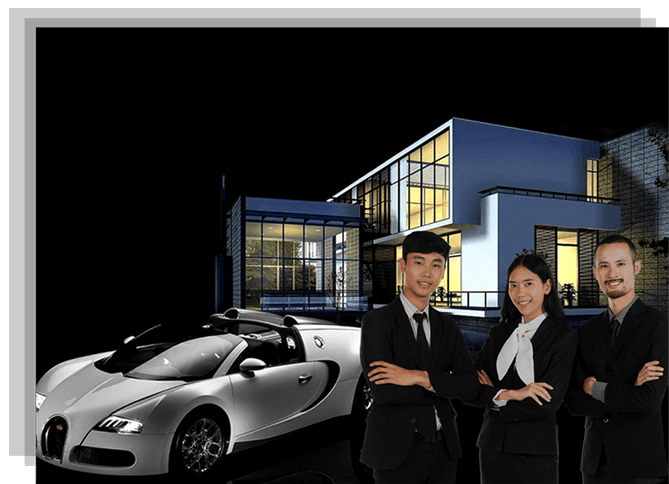
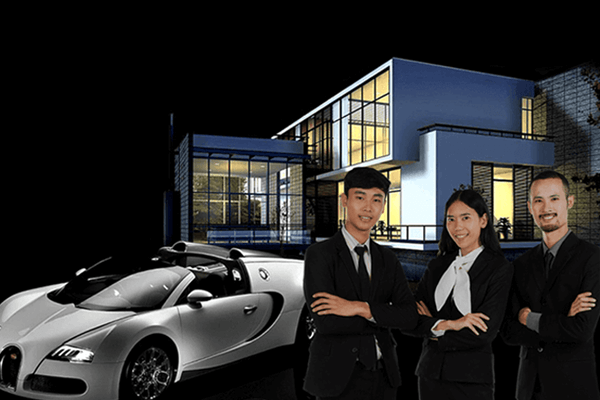
190730

diff --git a/css/CustomStyle.css b/css/CustomStyle.css
@@ -35,7 +35,7 @@ body {
   display: flex;
   -webkit-justify-content: flex-start;
   justify-content: flex-start;
-  max-width: 1440px;
+  max-width: 1200px;
   width: 100%;
   margin: 20px auto;
   padding: 20px;
@@ -114,23 +114,23 @@ body {
 }
 
 .wrap section.PageBox .PBi-01 .box01 .ImgItemBox.aaa .pg01-part-1 {
-  -webkit-transform: translate(490px, 600px);
-  transform: translate(490px, 600px);
+  -webkit-transform: translate(360px, 610px);
+  transform: translate(360px, 610px);
 }
 
 .wrap section.PageBox .PBi-01 .box01 .ImgItemBox.aaa .pg01-part-2 {
-  -webkit-transform: translate(100px, 460px);
-  transform: translate(100px, 460px);
+  -webkit-transform: translate(-20px, 460px);
+  transform: translate(-20px, 460px);
 }
 
 .wrap section.PageBox .PBi-01 .box01 .ImgItemBox.aaa .pg01-part-3 {
-  -webkit-transform: translate(85px, 200px);
-  transform: translate(85px, 200px);
+  -webkit-transform: translate(-35px, 200px);
+  transform: translate(-35px, 200px);
 }
 
 .wrap section.PageBox .PBi-01 .box01 .ImgItemBox.aaa .pg01-part-4 {
-  -webkit-transform: translate(-230px, -100px);
-  transform: translate(-230px, -100px);
+  -webkit-transform: translate(-360px, -110px);
+  transform: translate(-360px, -110px);
 }
 
 .wrap section.PageBox .PBi-01 .box02 {
@@ -199,7 +199,7 @@ body {
 
 .wrap section.PageBox .PBi-02 .box02 img {
   margin-top: 15px;
-  width: 100%;
+  width: 120%;
 }
 
 .wrap section.PageBox .PBi-03 {
@@ -308,11 +308,13 @@ body {
 }
 
 .wrap section.PageBox .PBi-04 .box02 {
-  width: 800px;
+  width: 680px;
+  margin-bottom: -110px;
+  position: relative;
 }
 
 .wrap section.PageBox .PBi-04 .box02 img {
-  width: 100%;
+  width: 140%;
   height: auto;
 }
 
@@ -342,7 +344,7 @@ body {
 
 .wrap section.PageBox .PBi-05 .box01 h3 {
   color: #c3992f;
-  font-size: 36px;
+  font-size: 30px;
 }
 
 .wrap section.PageBox .PBi-05 .box01 .ItemBox {
@@ -352,8 +354,8 @@ body {
 
 .wrap section.PageBox .PBi-05 .box01 .ItemBox li {
   counter-increment: step-counter;
-  padding-bottom: 30px;
-  margin-bottom: 30px;
+  padding-bottom: 20px;
+  margin-bottom: 20px;
   position: relative;
 }
 
@@ -379,6 +381,7 @@ body {
 
 .wrap section.PageBox .PBi-05 .box02 {
   width: 800px;
+  box-shadow: -12px 14px 2px rgba(13, 13, 13, 0.6), -22px 24px 2px rgba(13, 13, 13, 0.4);
 }
 
 .wrap section.PageBox .PBi-05 .box02 img {
@@ -506,6 +509,25 @@ body {
   }
 }
 
+.wrap section.PageBox .side-bar {
+  width: 66px;
+  height: 66px;
+  position: relative;
+  bottom: 20px;
+  right: 25px;
+  z-index: 100;
+}
+
+.wrap section.PageBox .side-bar a {
+  color: #fff;
+  text-align: center;
+  display: block;
+}
+
+.wrap section.PageBox .side-bar a i {
+  line-height: 66px;
+}
+
 .wrap section.PageBox .PBi-01 .box02 .PCBox, .wrap section.PageBox .PBi-03 .PCBox {
   display: block;
 }
@@ -542,7 +564,7 @@ body {
 }
 
 .wrap h2 {
-  font-size: 50px;
+  font-size: 60px;
   font-weight: 700;
   letter-spacing: 1.4px;
   color: #c3992f;
@@ -550,12 +572,12 @@ body {
 
 .wrap h3 {
   font-size: 36px;
-  font-weight: 500;
+  font-weight: 600;
   letter-spacing: 1px;
 }
 
 .wrap .txt {
-  font-size: 30px;
+  font-size: 28px;
   line-height: 40px;
 }
 
@@ -766,6 +788,13 @@ body {
   .wrap section.PageBox .PBi-01 .box01 .ImgItemBox.aaa .pg01-part-4 {
     -webkit-transform: translate(-230px, -120px);
     transform: translate(-230px, -120px);
+  }
+  .wrap section.PageBox .PBi-02 .box02 img {
+    margin-top: 15px;
+    width: 100%;
+  }
+  .wrap section.PageBox .PBi-04 .box02 img {
+    width: 110%;
   }
   .wrap section.PageBox:nth-child(1) {
     background-position: -30% 70%;

diff --git a/index.html b/index.html
@@ -8,6 +8,7 @@
     <script src="https://ajax.googleapis.com/ajax/libs/jquery/3.4.1/jquery.min.js"></script>
     <script src="library/mousewheel.min.js"></script>
     <script src="https://cdnjs.cloudflare.com/ajax/libs/animejs/2.0.2/anime.min.js"></script>
+    <script src="https://kit.fontawesome.com/da4ab368ff.js"></script>
     <script src="js/custom.js"></script>
 
     <link rel="stylesheet" href="css/reset.css">
@@ -139,6 +140,12 @@
                     <div class="box box02 title-block MBox">
                         <img src="images/pg06/m-item-img01.png" alt="">
                     </div>
+                </div>
+                <div class="side-bar">
+                    <a href="#" class="icon-qq">
+                        <!-- <i class="fas fa-thumbs-up fa-3x"></i> -->
+                        <i class="fab fa-qq fa-3x"></i>
+                    </a>
                 </div>
             </section>
             <!--/ 06-->
